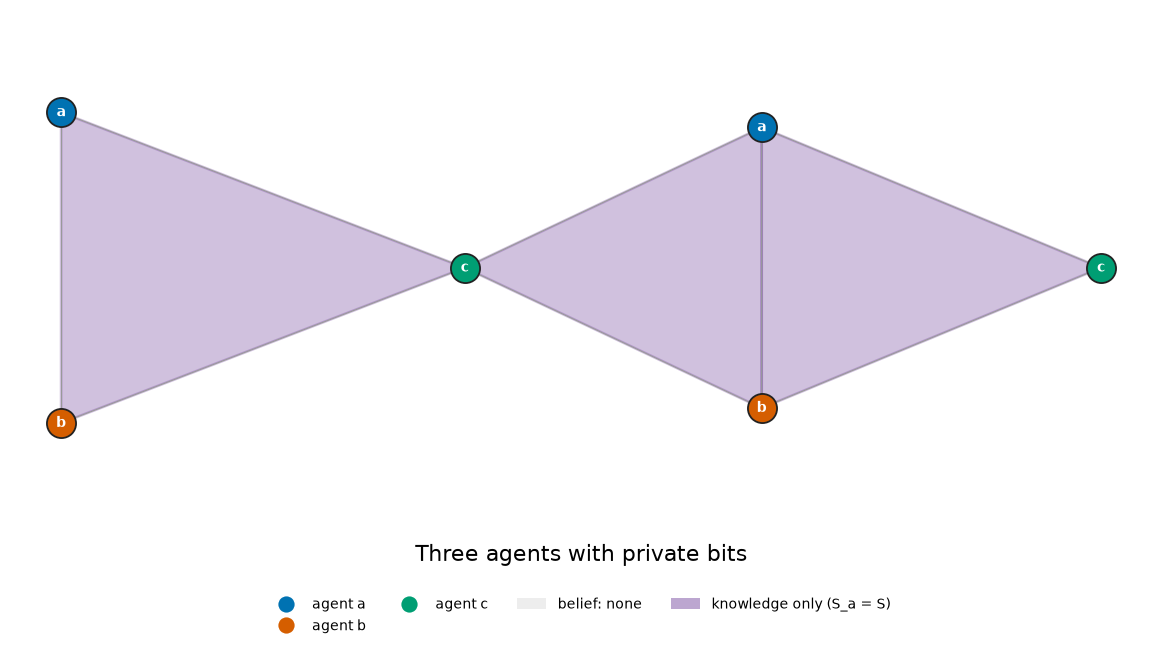
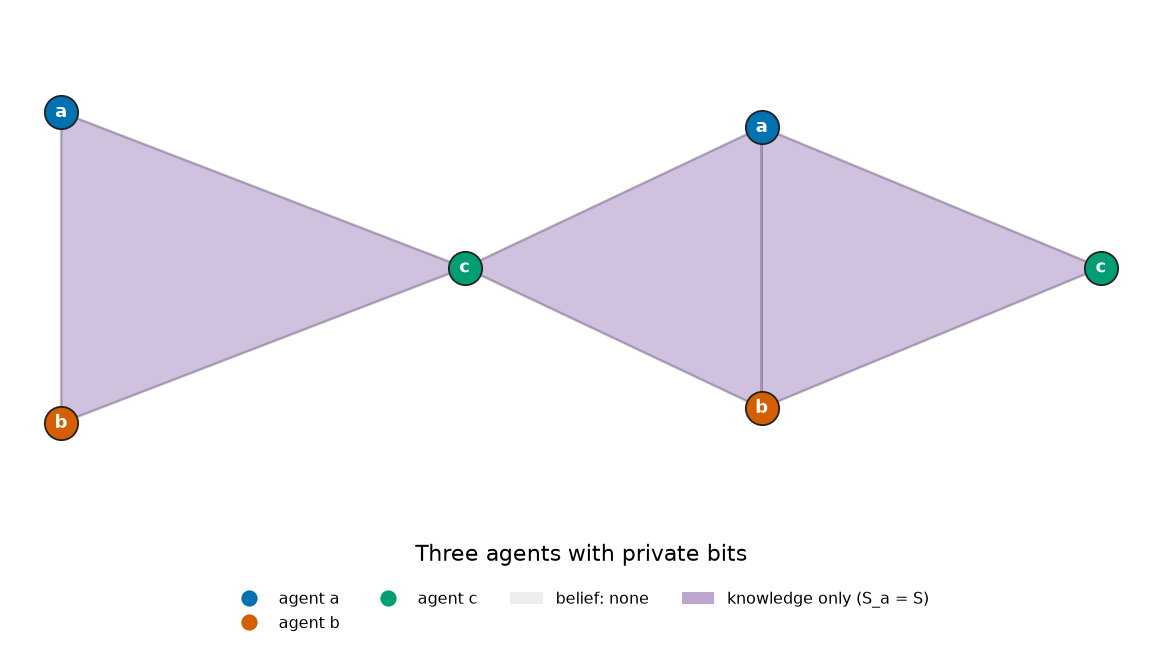
Visualization: larger labels in the simplicial drawings

diff --git a/visualization.py b/visualization.py
@@ -1397,7 +1397,7 @@ def _show_simplicial(model, name, output_dir, title, image_format,
             ax.annotate(
                 fname, (cx, cy), xytext=lift, textcoords="offset points",
                 ha="center", va="bottom" if len(pts) == 2 else "center",
-                fontsize=7, color="#9aa6b5" if dead else "#222222", zorder=5,
+                fontsize=10, color="#9aa6b5" if dead else "#222222", zorder=5,
                 bbox=dict(boxstyle="round,pad=0.25", facecolor="white",
                           edgecolor="#aab2bf" if dead else col,
                           linewidth=0.8, alpha=0.9),
@@ -1479,17 +1479,17 @@ def _show_simplicial(model, name, output_dir, title, image_format,
     # Nodes, coloured and labelled by agent.
     for node in model.nodes:
         x, y = pos[node]
-        ax.scatter([x], [y], s=260, color=colors[node.agent],
+        ax.scatter([x], [y], s=340, color=colors[node.agent],
                    edgecolor="#222", linewidth=1.0, zorder=3)
         ax.annotate(f"{node.agent}", (x, y), color="white", ha="center", va="center",
-                    fontsize=8, fontweight="bold", zorder=4)
+                    fontsize=10, fontweight="bold", zorder=4)
         # A directly-defined complex names its vertices: show the name just
         # above the marker (the marker itself keeps the agent's letter, which
         # is the colouring). Translated models have no names and stay as-is.
         vname = (getattr(model, "node_names", None) or {}).get(node)
         if vname:
-            ax.annotate(str(vname), (x, y), xytext=(0, 12), textcoords="offset points",
-                        ha="center", va="bottom", fontsize=7, color="#222222", zorder=4)
+            ax.annotate(str(vname), (x, y), xytext=(0, 14), textcoords="offset points",
+                        ha="center", va="bottom", fontsize=10, color="#222222", zorder=4)
         if assignment is not None:
             # The observed literals sit just below the marker (offset in POINTS,
             # not data units, so the gap survives any zoom/layout scale). Nodes
@@ -1498,8 +1498,8 @@ def _show_simplicial(model, name, output_dir, title, image_format,
             if literals:
                 ax.annotate(
                     "(" + ", ".join(literals) + ")", (x, y),
-                    xytext=(0, -16), textcoords="offset points",
-                    ha="center", va="top", fontsize=7, color="#222222", zorder=4,
+                    xytext=(0, -19), textcoords="offset points",
+                    ha="center", va="top", fontsize=9.5, color="#222222", zorder=4,
                 )
 
     # Legend: agents + belief signatures.
@@ -1520,7 +1520,7 @@ def _show_simplicial(model, name, output_dir, title, image_format,
     # the same distance from the drawing whatever the drawing's shape.
     ncol = min(len(handles), 4)
     fig.legend(handles=handles, loc="lower center",
-               bbox_to_anchor=(0.5, legend_y0 / height), ncol=ncol, fontsize=8,
+               bbox_to_anchor=(0.5, legend_y0 / height), ncol=ncol, fontsize=9,
                frameon=False)
     fig.text(0.5, caption_y / height, title, ha="center", va="bottom", fontsize=12)
     ax.set_axis_off()
@@ -1675,7 +1675,7 @@ def _show_simplicial_3d(model, name, output_dir, title, assignment=None) -> str:
         traces.append(go.Scatter3d(
             x=[c[0] for c in cents], y=[c[1] for c in cents], z=[c[2] for c in cents],
             mode="text", text=[n for _, n in named], textposition="middle center",
-            textfont=dict(size=10, color="#222222"),
+            textfont=dict(size=13, color="#222222"),
             name="facetas", hoverinfo="skip", showlegend=False,
         ))
 
